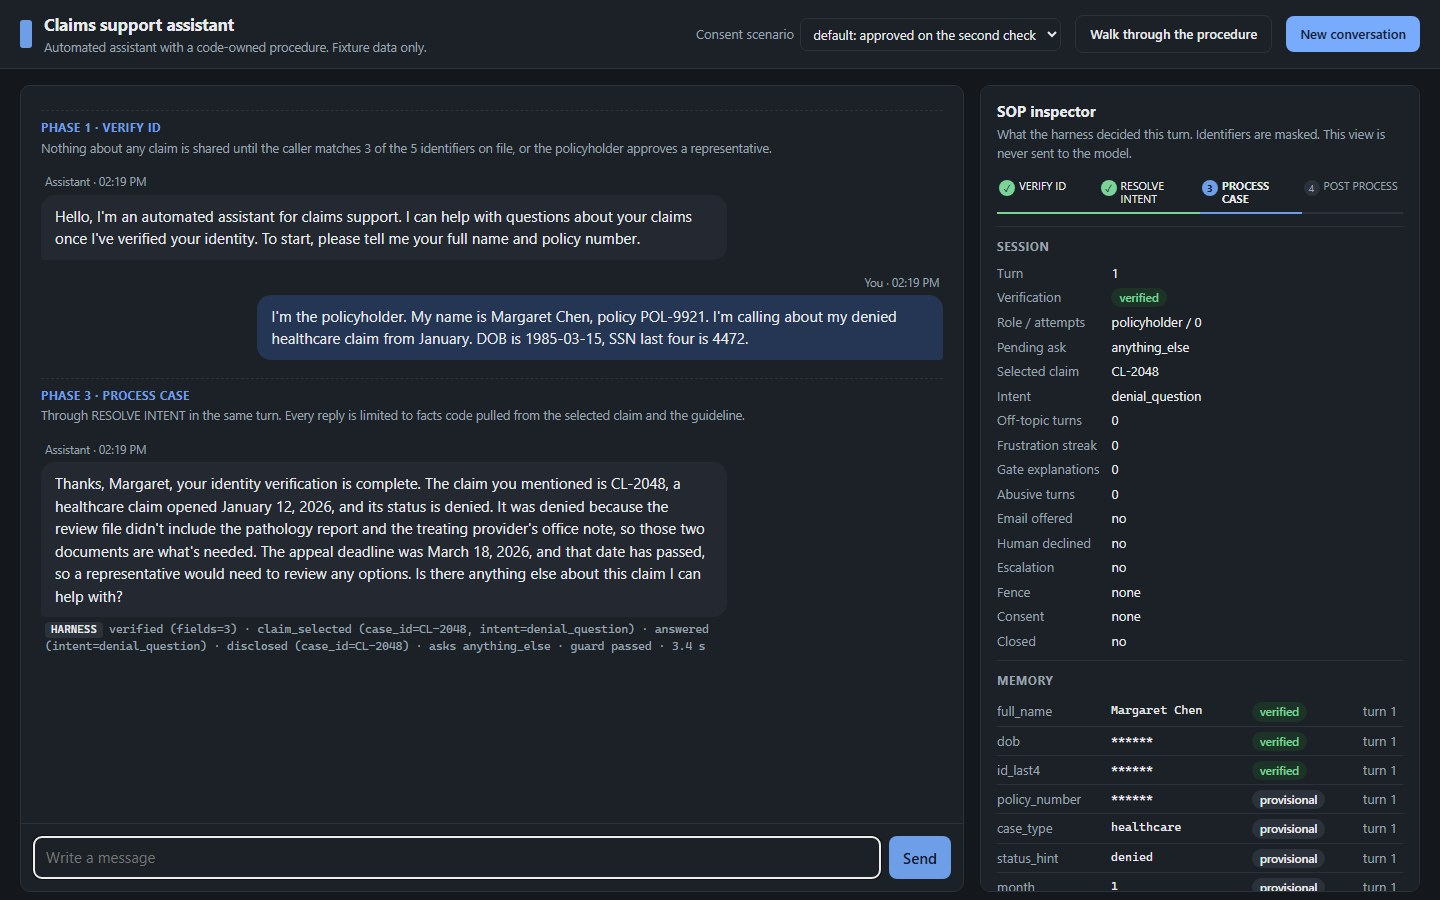
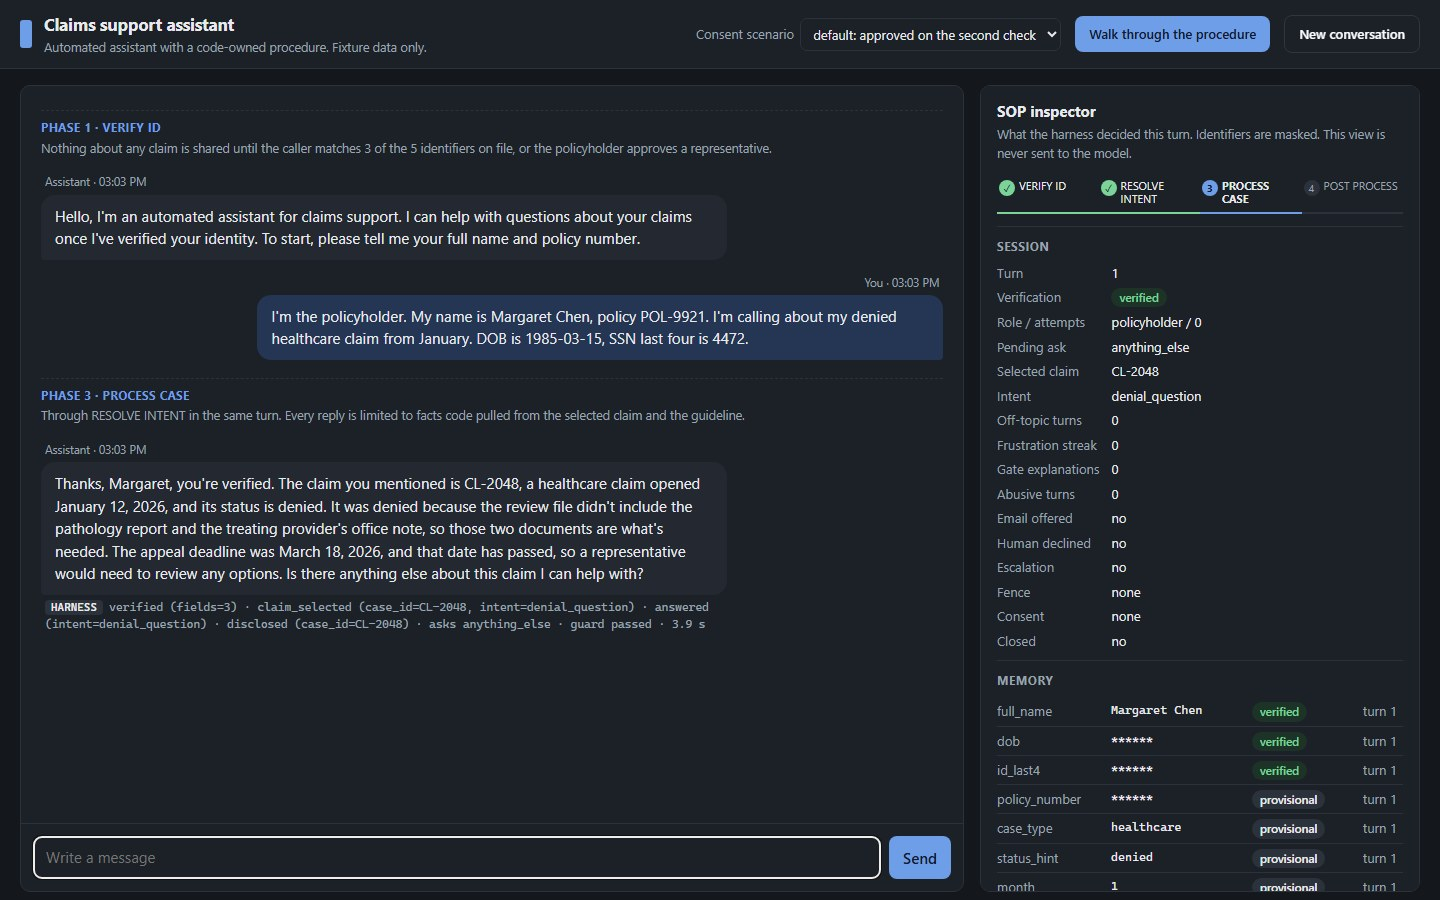
Walkthrough first: start panel, primary button and a progress strip
Every new conversation opens with a start panel: a one-line explanation, a primary Walk through the procedure button and the example messages under it. The top-bar button is the primary action and New conversation goes secondary. While the walkthrough runs, a strip above the composer shows the step and the phase with a progress bar, and the composer reads Walkthrough running. GIF and screenshot re-recorded.

Changed region(s): [[0.0312, 0.5289, 0.5, 0.7467], [0.7188, 0.0, 1.0, 0.0622]]

diff --git a/ui/app.js b/ui/app.js
@@ -36,6 +36,7 @@ let token = "";
 let linkToken = "";  // a token that arrived in the link; used only after the person confirms it in the dialog
 let busy = false;
 let touring = false;
+let currentPhase = PHASES[0];
 
 // Every piece of model or server text is rendered through el() and textContent, never as HTML.
 function el(tag, className, text) {
@@ -145,16 +146,35 @@ function addDecided(node, data, events) {
   $("messages").scrollTop = $("messages").scrollHeight;
 }
 
-function showExamples() {
-  const box = el("div", "examples");
-  box.appendChild(el("p", "examples-title", "Try one of these, or write your own message:"));
+// The start panel of a new conversation: the walkthrough first, the example messages under it.
+function showStart() {
+  const box = el("div", "start");
+  box.appendChild(el("h2", "start-title", "See the whole procedure in one click"));
+  box.appendChild(el("p", "start-text", "Seven turns, one phase at a time, with what the harness decided under "
+    + "each reply."));
+  const go = el("button", "start-button", "Walk through the procedure");
+  go.type = "button";
+  go.addEventListener("click", runTour);
+  box.appendChild(go);
+  box.appendChild(el("p", "start-or", "Or start with one of these:"));
+  const chips = el("div", "chips");
   EXAMPLES.forEach((text) => {
     const chip = el("button", "chip", text);
     chip.type = "button";
     chip.addEventListener("click", () => { if (!busy && !touring) { $("input").value = text; sendMessage(); } });
-    box.appendChild(chip);
+    chips.appendChild(chip);
   });
+  box.appendChild(chips);
   $("messages").appendChild(box);
+}
+
+// The strip above the composer while the walkthrough runs: which step, and the phase the conversation is in.
+function showTourProgress(step, total) {
+  const strip = $("tour-progress");
+  if (step === null) { strip.hidden = true; return; }
+  strip.hidden = false;
+  $("tour-step").textContent = `Walkthrough · step ${step} of ${total} · ${currentPhase.replace("_", " ")}`;
+  $("tour-bar").style.width = `${Math.round(((step - 1) / total) * 100)}%`;
 }
 
 function pill(text, kind) {
@@ -297,6 +317,7 @@ function renderEvents(events) {
 }
 
 function renderState(state) {
+  currentPhase = state.phase;
   renderPhases(state.phase);
   renderStatus(state);
   renderMemory(state.memory);
@@ -365,7 +386,7 @@ async function newConversation() {
   sessionId = data.session_id;
   addPhaseDivider(null, data.state.phase, []);
   addMessage("assistant", data.greeting);
-  showExamples();
+  if (!touring) showStart();
   renderState(data.state);
   await refreshOutbox();
   $("input").focus();
@@ -376,7 +397,7 @@ async function sendMessage() {
   if (!text || !sessionId || busy) return;
   $("input").value = "";
   $("input").style.height = "";
-  document.querySelector(".examples")?.remove();
+  document.querySelector(".start")?.remove();
   addMessage("user", text);
   const typing = addMessage("assistant typing", "");
   setBusy(true);
@@ -419,12 +440,15 @@ async function runTour() {
     if (!sid) return;
     addMessage("system", "Guided walkthrough: one phase at a time. Each divider marks the phase the harness moved to, "
       + "and the line under every reply is what it decided.");
-    for (const text of TOUR) {
+    $("input").placeholder = "Walkthrough running";
+    for (const [i, text] of TOUR.entries()) {
       if (sessionId !== sid) return;
+      showTourProgress(i + 1, TOUR.length);
       $("input").value = text;
       if (!(await sendMessage())) return;
       await new Promise((resolve) => setTimeout(resolve, 900));
     }
+    $("tour-bar").style.width = "100%";
     if (sessionId === sid) {  // the closing line claims only what the page shows
       const phases = $("messages").querySelectorAll(".phase-divider").length;
       const sent = $("outbox").querySelectorAll("li:not(.empty)").length;
@@ -433,6 +457,8 @@ async function runTour() {
     }
   } finally {
     touring = false;
+    showTourProgress(null);
+    $("input").placeholder = "Write a message";
     setBusy(busy);
     $("input").focus();
   }

diff --git a/ui/styles.css b/ui/styles.css
@@ -185,9 +185,23 @@ button.secondary { background: transparent; color: var(--ink); border: 1px solid
   color: var(--ink); font-size: 10.5px; font-weight: 600; letter-spacing: 0.04em; text-transform: uppercase;
 }
 
-/* Example prompts shown at the start of a conversation */
-.examples { align-self: stretch; display: flex; flex-direction: column; gap: 8px; padding: 6px 0 0 4px; }
-.examples-title { font-size: 12.5px; color: var(--muted); }
+/* The start panel of a new conversation, and the progress strip while the walkthrough runs */
+.start {
+  align-self: stretch; display: flex; flex-direction: column; gap: 8px; margin-top: 6px; padding: 18px 20px;
+  border: 1px solid var(--line); border-radius: var(--radius); background: var(--bot);
+}
+.start-title { font-size: 16px; font-weight: 650; letter-spacing: -0.01em; }
+.start-text { font-size: 13.5px; color: var(--muted); }
+.start-button { align-self: flex-start; margin-top: 4px; padding: 10px 18px; font-size: 14.5px; }
+.start-or { margin-top: 8px; font-size: 12.5px; color: var(--muted); }
+.chips { display: flex; flex-direction: column; gap: 8px; }
+.tour-progress {
+  display: flex; align-items: center; gap: 12px; padding: 8px 14px; border-top: 1px solid var(--line);
+  font-size: 12.5px; font-weight: 600; color: var(--accent);
+}
+.tour-progress[hidden] { display: none; }
+.tour-progress .bar { flex: 1; height: 4px; border-radius: 2px; background: var(--line); overflow: hidden; }
+.tour-progress .bar div { height: 100%; width: 0; background: var(--accent); transition: width 0.4s; }
 .chip {
   align-self: flex-start; max-width: 100%; text-align: left; padding: 8px 12px; border-radius: 10px;
   background: var(--panel); color: var(--ink); border: 1px solid var(--line); font-weight: 500; font-size: 13.5px;

diff --git a/ui/index.html b/ui/index.html
@@ -23,14 +23,18 @@
         </select>
       </label>
       <button id="token-button" type="button" class="secondary" hidden>Access token</button>
-      <button id="tour" type="button" class="secondary">Walk through the procedure</button>
-      <button id="new" type="button">New conversation</button>
+      <button id="tour" type="button">Walk through the procedure</button>
+      <button id="new" type="button" class="secondary">New conversation</button>
     </div>
   </header>
 
   <main>
     <section id="chat" aria-label="chat">
       <div id="messages" aria-live="polite"></div>
+      <div id="tour-progress" class="tour-progress" hidden>
+        <span id="tour-step"></span>
+        <div class="bar" aria-hidden="true"><div id="tour-bar"></div></div>
+      </div>
       <form id="form" autocomplete="off">
         <textarea id="input" rows="1" placeholder="Write a message" aria-label="Message"></textarea>
         <button id="send" type="submit">Send</button>

diff --git a/README.md b/README.md
@@ -17,10 +17,11 @@ owns the SOP; the model reads and phrases:** one LLM call reads each message int
 - **Chat and SOP inspector:** http://localhost:8000 shows the chat beside the inspector, which tracks the
   phase, verification status and attempts, memory slots with their source turn, the brief the Writer got, the
   guard verdict, the outbox and the last redacted trace.
-- **Guided walkthrough:** the **Walk through the procedure** button plays a seven-turn conversation one
-  phase at a time. A divider in the chat marks each phase the harness moves to and the rule it enforces
-  there, and the line under every reply lists what the harness did that turn: the events, the pending ask,
-  the guard verdict and the latency. The script is in [Demo script](#demo-script).
+- **Guided walkthrough:** the **Walk through the procedure** button, in the top bar and on the start panel of
+  every new conversation, plays a seven-turn conversation one phase at a time with a progress strip above the
+  composer. A divider in the chat marks each phase the harness moves to and the rule it enforces there, and
+  the line under every reply lists what the harness did that turn: the events, the pending ask, the guard
+  verdict and the latency. The script is in [Demo script](#demo-script).
 - **Golden transcripts:** both transcripts from the spec (Margaret in one turn, the angry caller) and the
   representative approve and timeout paths are in [Golden transcripts](#golden-transcripts), with the state
   after each turn and what each reply must and must not say.
